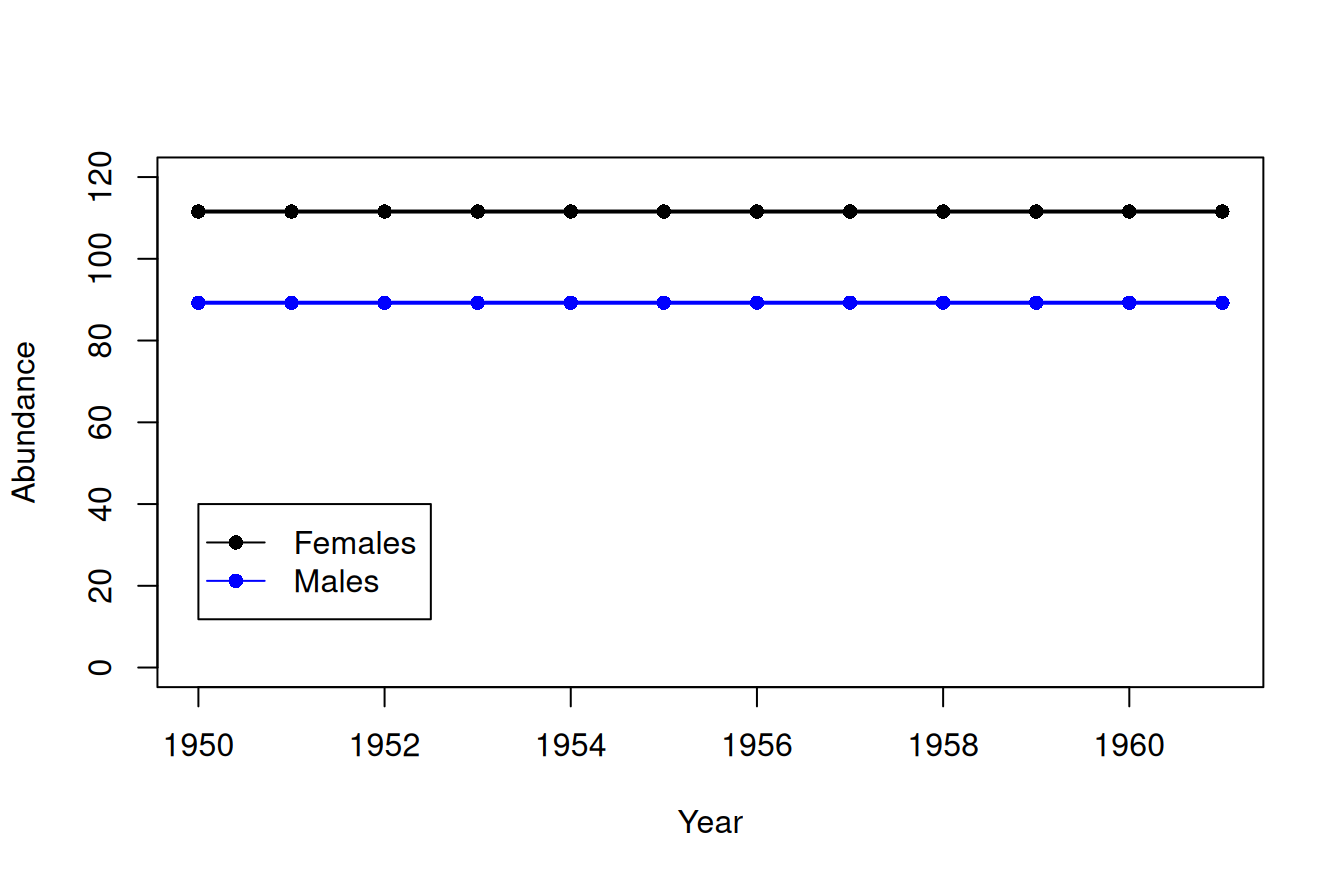
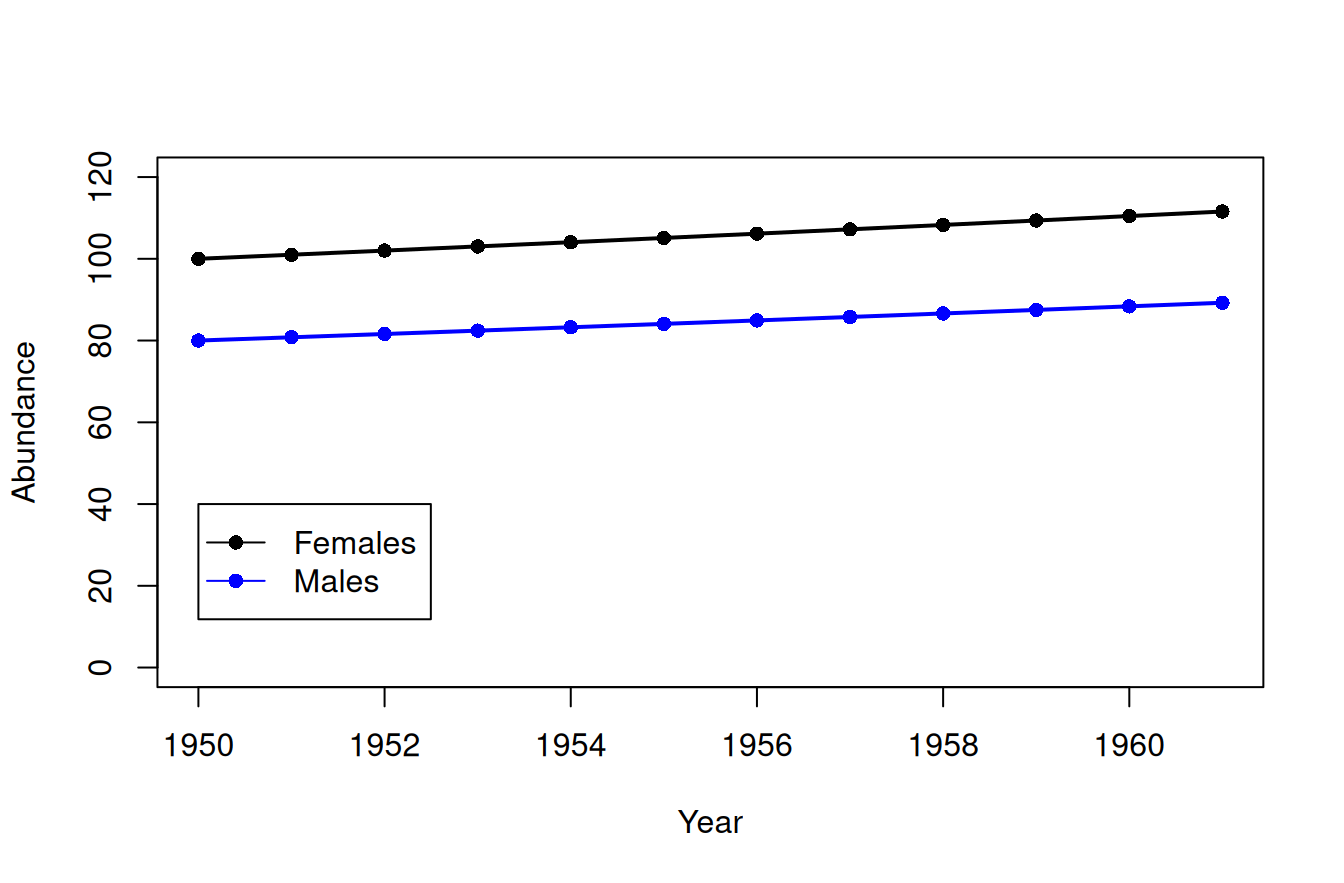
intro lab

Changed region(s): [[0.125, 0.214, 0.9062, 0.3058], [0.125, 0.3364, 0.9062, 0.3975]]

diff --git a/docs/labs/intro/lab-Excel-R-Basics.html b/docs/labs/intro/lab-Excel-R-Basics.html
@@ -460,8 +460,8 @@ Change line color
 </section>
 <section id="reproducing-the-excel-exercise" class="slide level2">
 <h2>Reproducing the Excel exercise</h2>
-<div style="font-size: 80%;">
-<p>Create an object called <span style="background-color: inlinecolor"><code>year</code></span> to hold the sequence of years.</p>
+<div style="font-size: 75%;">
+<p>Create an object called <span style="background-color: inlinecolor"><code>year</code></span> to hold the sequence of years.<sup>1</sup></p>
 <div class="cell">
 <div class="code-copy-outer-scaffold"><div class="sourceCode cell-code" id="cb1"><pre class="sourceCode numberSource r number-lines code-with-copy"><code class="sourceCode r"><span id="cb1-1"><a></a>year <span class="ot">&lt;-</span> <span class="dv">1950</span><span class="sc">:</span><span class="dv">1961</span> <span class="co"># A vector of integers</span></span>
 <span id="cb1-2"><a></a>year              <span class="co"># Type the name of an object to see its values</span></span></code></pre></div><button title="Copy to Clipboard" class="code-copy-button"><i class="bi"></i></button></div>
@@ -469,7 +469,6 @@ Change line color
 <pre><code> [1] 1950 1951 1952 1953 1954 1955 1956 1957 1958 1959 1960 1961</code></pre>
 </div>
 </div>
-<p><br></p>
 <div class="fragment">
 <p>Note that you can use <span style="background-color: inlinecolor"><code>seq</code></span> to create sequences in a more general way. The <span style="background-color: inlinecolor"><code>c</code></span> function combines two or more vectors.</p>
 <div class="cell">
@@ -480,7 +479,6 @@ Change line color
 </div>
 </div>
 </div>
-<p><br></p>
 <div class="fragment">
 <p>Use the <code>length</code> function to determine the number of values in a vector.</p>
 <div class="cell">
@@ -492,60 +490,66 @@ Change line color
 </div>
 </div>
 </div>
-</section>
+<aside><ol class="aside-footnotes"><li id="fn1"><p>Everything in the boxes is R code that you can copy and paste into your script in RStudio. Everything below the boxes is R output.</p></li></ol></aside></section>
 <section id="a-simple-population-model" class="slide level2">
 <h2>A simple population model</h2>
 <div style="font-size: 80%;">
 <p>Create an empty vector to store the data on females. Set female abundance to 100 in the first year.</p>
 <div class="cell">
 <div class="code-copy-outer-scaffold"><div class="sourceCode cell-code" id="cb7"><pre class="sourceCode numberSource r number-lines code-with-copy"><code class="sourceCode r"><span id="cb7-1"><a></a>females <span class="ot">&lt;-</span> <span class="fu">rep</span>(<span class="cn">NA</span>, nYears)</span>
-<span id="cb7-2"><a></a>females[] <span class="ot">&lt;-</span> <span class="dv">100</span></span></code></pre></div><button title="Copy to Clipboard" class="code-copy-button"><i class="bi"></i></button></div>
+<span id="cb7-2"><a></a>females[<span class="dv">1</span>] <span class="ot">&lt;-</span> <span class="dv">100</span></span></code></pre></div><button title="Copy to Clipboard" class="code-copy-button"><i class="bi"></i></button></div>
 </div>
 <p><br></p>
 <div class="fragment">
 <p>Use a “for loop” to compute female abundance in subsequent years.</p>
 <div class="cell">
 <div class="code-copy-outer-scaffold"><div class="sourceCode cell-code" id="cb8"><pre class="sourceCode numberSource r number-lines code-with-copy"><code class="sourceCode r"><span id="cb8-1"><a></a><span class="cf">for</span>(t <span class="cf">in</span> <span class="dv">2</span><span class="sc">:</span>nYears) {</span>
-<span id="cb8-2"><a></a>    females[] <span class="ot">&lt;-</span> females[] <span class="sc">+</span> females[]<span class="sc">*</span><span class="fl">0.01</span></span>
+<span id="cb8-2"><a></a>    females[t] <span class="ot">&lt;-</span> females[t<span class="dv">-1</span>] <span class="sc">+</span> females[t<span class="dv">-1</span>]<span class="sc">*</span><span class="fl">0.01</span></span>
 <span id="cb8-3"><a></a>}</span></code></pre></div><button title="Copy to Clipboard" class="code-copy-button"><i class="bi"></i></button></div>
 </div>
 </div>
 <p><br></p>
+<center>
 <div class="fragment">
-<p><span class="alert center"><strong>We will use “for loops” for almost every population model that we implement in R</strong></span></p>
+<p><span class="alert"><strong>We will use “for loops” for almost every population model that we implement in R</strong></span></p>
 </div>
+</center>
 </div>
 </section>
 <section id="a-simple-population-model-1" class="slide level2">
 <h2>A simple population model</h2>
+<div style="font-size: 85%;">
 <div class="columns">
 <div class="column" style="width:40%;">
 <p>Generate the data on males using a single line of code.</p>
 <div class="cell">
 <div class="code-copy-outer-scaffold"><div class="sourceCode cell-code" id="cb9"><pre class="sourceCode numberSource r number-lines code-with-copy"><code class="sourceCode r"><span id="cb9-1"><a></a>males <span class="ot">&lt;-</span> females<span class="sc">*</span><span class="fl">0.8</span></span></code></pre></div><button title="Copy to Clipboard" class="code-copy-button"><i class="bi"></i></button></div>
 </div>
-</div><div class="column" style="width:60%;">
+</div><div class="column" style="width:5%;">
+
+</div><div class="column fragment" style="width:55%;">
 <p>Put the objects in a <code>data.frame</code></p>
 <div class="cell">
 <div class="code-copy-outer-scaffold"><div class="sourceCode cell-code" id="cb10"><pre class="sourceCode numberSource r number-lines code-with-copy"><code class="sourceCode r"><span id="cb10-1"><a></a>model1 <span class="ot">&lt;-</span> <span class="fu">data.frame</span>(year, females, males)</span>
 <span id="cb10-2"><a></a>model1</span></code></pre></div><button title="Copy to Clipboard" class="code-copy-button"><i class="bi"></i></button></div>
 <div class="cell-output cell-output-stdout">
 <pre><code>   year  females    males
-1  1950 111.5668 89.25347
-2  1951 111.5668 89.25347
-3  1952 111.5668 89.25347
-4  1953 111.5668 89.25347
-5  1954 111.5668 89.25347
-6  1955 111.5668 89.25347
-7  1956 111.5668 89.25347
-8  1957 111.5668 89.25347
-9  1958 111.5668 89.25347
-10 1959 111.5668 89.25347
-11 1960 111.5668 89.25347
+1  1950 100.0000 80.00000
+2  1951 101.0000 80.80000
+3  1952 102.0100 81.60800
+4  1953 103.0301 82.42408
+5  1954 104.0604 83.24832
+6  1955 105.1010 84.08080
+7  1956 106.1520 84.92161
+8  1957 107.2135 85.77083
+9  1958 108.2857 86.62854
+10 1959 109.3685 87.49482
+11 1960 110.4622 88.36977
 12 1961 111.5668 89.25347</code></pre>
 </div>
 </div>
 </div></div>
+</div>
 </section>
 <section id="graphics-4" class="slide level2">
 <h2>Graphics</h2>
@@ -560,6 +564,25 @@ Change line color
 <figure>
 <p><img data-src="lab-Excel-R-Basics_files/figure-revealjs/plot-1.png" class="quarto-figure quarto-figure-center" width="672"></p>
 </figure>
+</div>
+</div>
+</div>
+</section>
+<section id="graphics-5" class="slide level2">
+<h2>Graphics</h2>
+<div style="font-size: 75%">
+<p>Another way to do the same thing, without putting objects in a <code>data.frame</code>:</p>
+<div class="cell" data-layout-align="center">
+<div class="code-copy-outer-scaffold"><div class="sourceCode cell-code" id="cb13"><pre class="sourceCode numberSource r number-lines code-with-copy"><code class="sourceCode r"><span id="cb13-1"><a></a><span class="fu">plot</span>(<span class="at">x=</span>year, <span class="at">y=</span>females, <span class="at">type=</span><span class="st">"o"</span>, <span class="at">xlab=</span><span class="st">"Year"</span>, <span class="at">ylab=</span><span class="st">"Abundance"</span>,</span>
+<span id="cb13-2"><a></a>     <span class="at">lwd=</span><span class="dv">2</span>, <span class="at">pch=</span><span class="dv">16</span>, <span class="at">ylim=</span><span class="fu">c</span>(<span class="dv">0</span>, <span class="dv">120</span>))</span>
+<span id="cb13-3"><a></a><span class="fu">lines</span>(<span class="at">x=</span>year, <span class="at">y=</span>males, <span class="at">type=</span><span class="st">"o"</span>, <span class="at">col=</span><span class="st">"blue"</span>, <span class="at">lwd=</span><span class="dv">2</span>, <span class="at">pch=</span><span class="dv">16</span>)</span>
+<span id="cb13-4"><a></a><span class="fu">legend</span>(<span class="at">x=</span><span class="dv">1950</span>, <span class="at">y=</span><span class="dv">40</span>, <span class="at">legend=</span><span class="fu">c</span>(<span class="st">"Females"</span>, <span class="st">"Males"</span>), <span class="at">col=</span><span class="fu">c</span>(<span class="st">"black"</span>, <span class="st">"blue"</span>), <span class="at">lty=</span><span class="dv">1</span>, <span class="at">pch=</span><span class="dv">16</span>)</span></code></pre></div><button title="Copy to Clipboard" class="code-copy-button"><i class="bi"></i></button></div>
+<div class="cell-output-display">
+<div class="quarto-figure quarto-figure-center">
+<figure>
+<p><img data-src="lab-Excel-R-Basics_files/figure-revealjs/plot-v2-1.png" class="quarto-figure quarto-figure-center" width="672"></p>
+</figure>
+</div>
 </div>
 </div>
 </div>
@@ -579,12 +602,21 @@ Change line color
 <ul>
 <li>Hint: You can make the juveniles data using <span style="background-color: inlinecolor"><code>seq</code></span> and <span style="background-color: inlinecolor"><code>c</code></span>, like we did with the <span style="background-color: inlinecolor"><code>updown</code></span> example earlier.</li>
 </ul></li>
-<li><p>Upload the Excel workbook (with both sheets) and the R script to ELC by 5:00pm on Friday. Always clear your RStudio workspace and then rerun the R script before submitting it to ELC.</p></li>
+<li><p>Upload the Excel workbook (with both sheets) and the R script to ELC by 5:00pm on Friday.<sup>1</sup></p></li>
 </ol>
+</div>
+<aside><ol class="aside-footnotes"><li id="fn2"><p>Always clear your RStudio workspace and then rerun the R script before submitting it to ELC.</p></li></ol></aside></section>
+<section id="excel-sheet-to-be-created" class="slide level2">
+<h2>Excel sheet to be created</h2>
+<div class="quarto-figure quarto-figure-center">
+<figure>
+<p><img data-src="figs/assignment-new.png" class="framed-img quarto-figure quarto-figure-center" style="width:90.0%"></p>
+</figure>
 </div>
 
 
 </section></section>
+
     </div>
   <div class="quarto-auto-generated-content" style="display: none;">
 <div class="footer footer-default">
